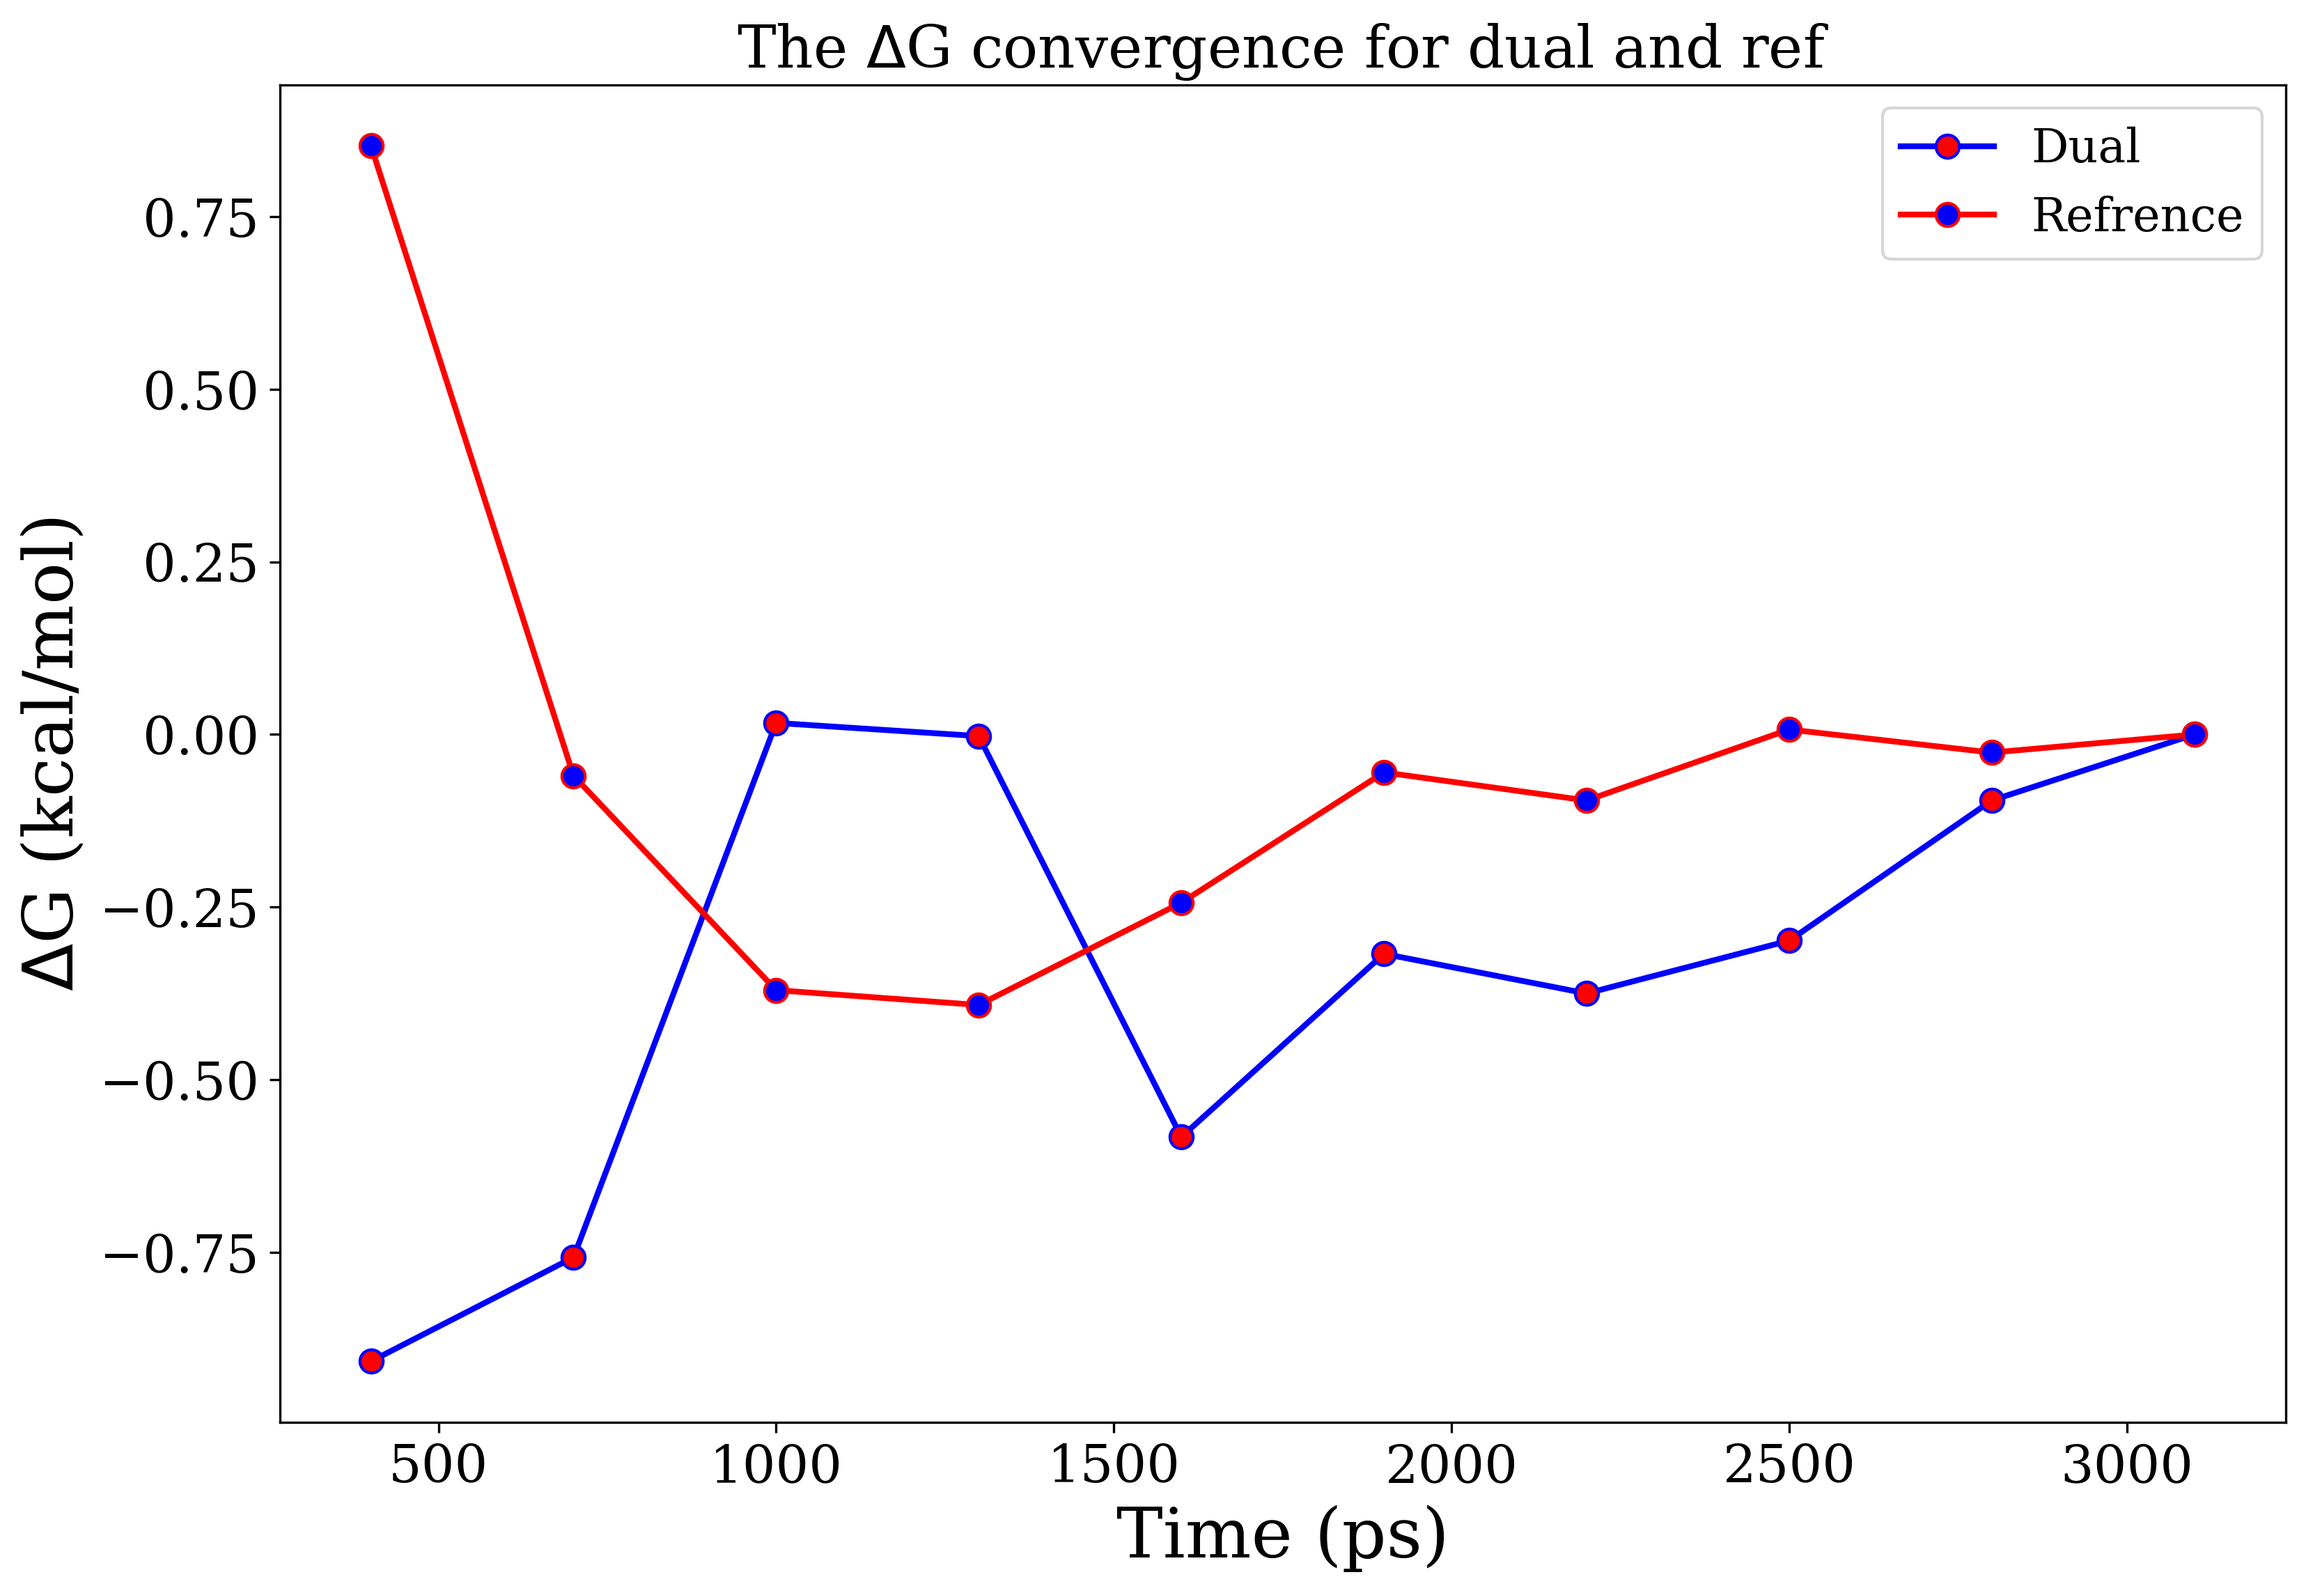
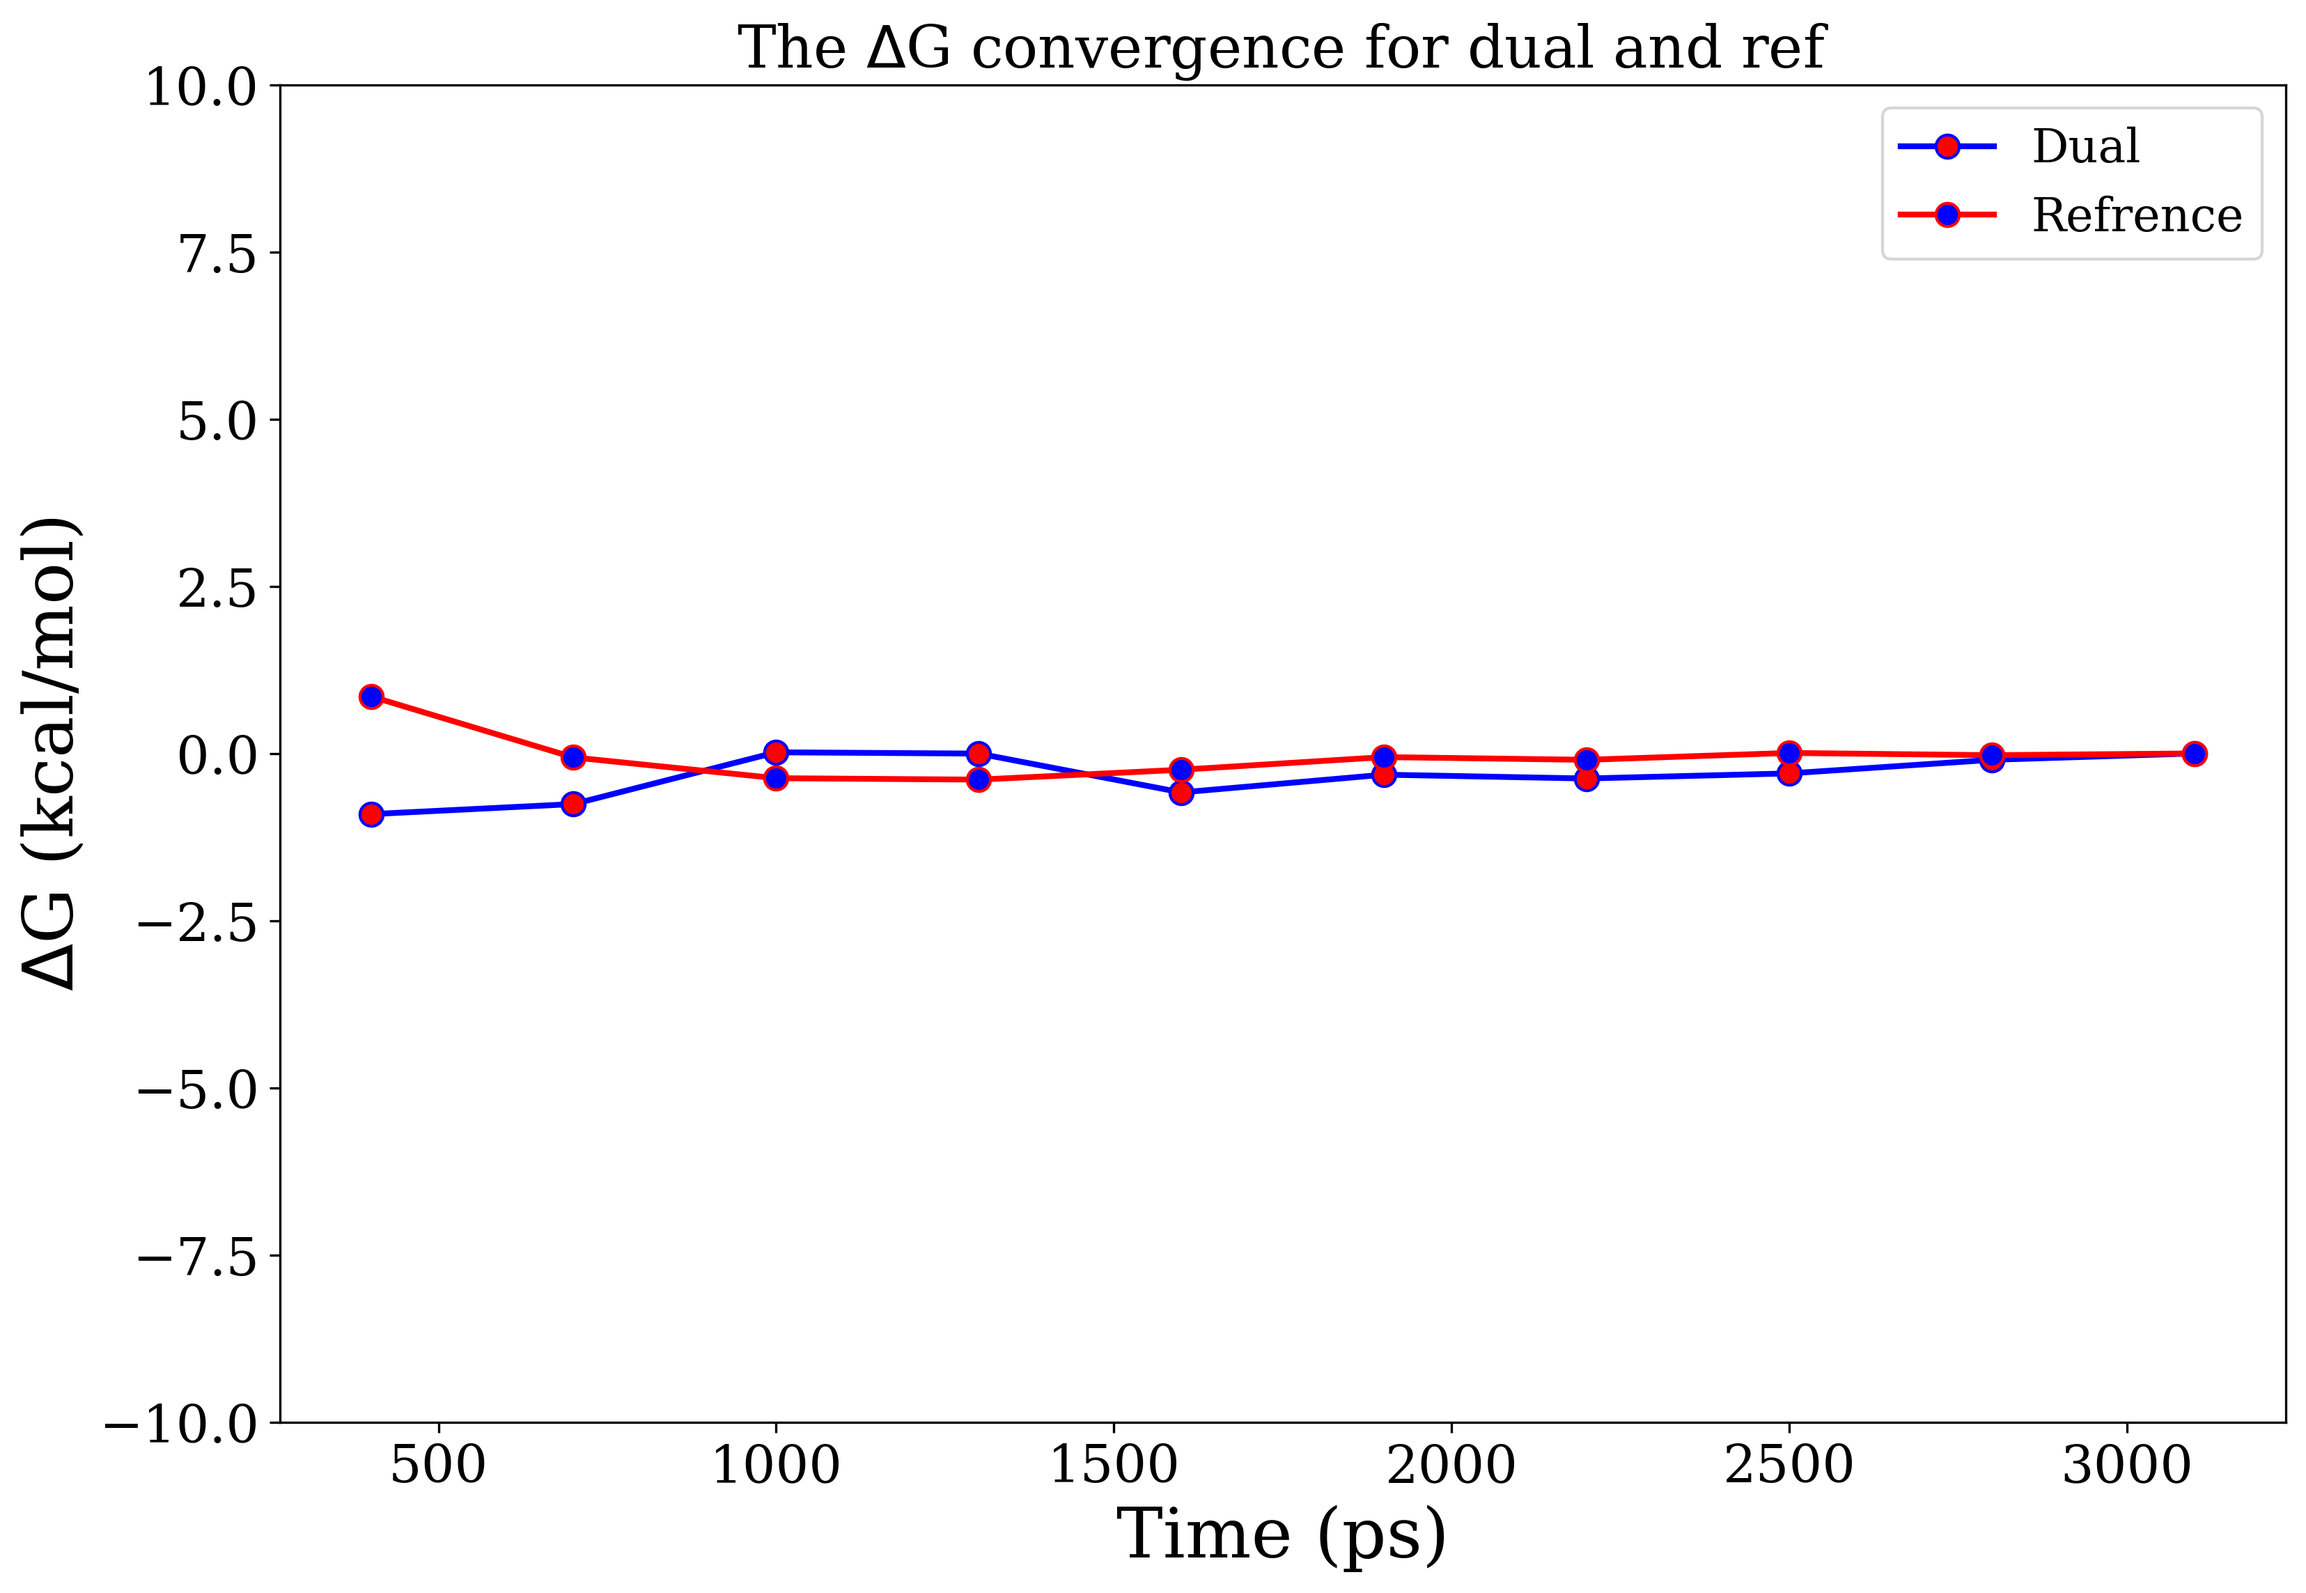
modify the ddG and dG limit to see the convergence

diff --git a/double_sub_mutation/analysis/2_convergence_ddG.py b/double_sub_mutation/analysis/2_convergence_ddG.py
@@ -62,6 +62,7 @@ ax.plot(timedual, energydual, linewidth=2, c='b', label='Dual',
         marker='o', markerfacecolor='r', markersize=8)
 ax.plot(timeref, energyref, linewidth=2, c='r', label='Refrence',
         marker='o', markerfacecolor='b', markersize=8)
+ax.set_ylim(-10, 10)
 ax.legend(fontsize=16)
 fig.savefig(
     f'../{dir1}_{dir2}_dG_convergence_kcal.png', bbox_inches='tight', dpi=300)
@@ -78,5 +79,6 @@ ax.set_xlabel('Time (ps)', fontsize=24, color='black')
 ax.set_ylabel('$\Delta\Delta$G (kcal/mol)', fontsize=24, color='black')
 ax.plot(timeref, energydiff, linewidth=2, c='b',
         marker='o', markerfacecolor='r', markersize=8)
+ax.set_ylim(-10, 10)
 fig.savefig(
     f'../{dir1}_{dir2}_ddg_convergence_kcal.png', bbox_inches='tight', dpi=300)
